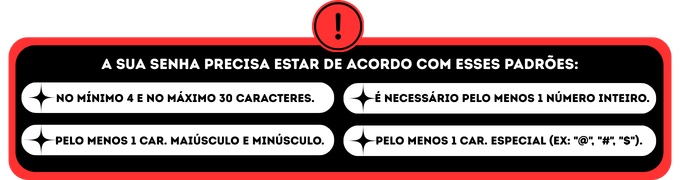
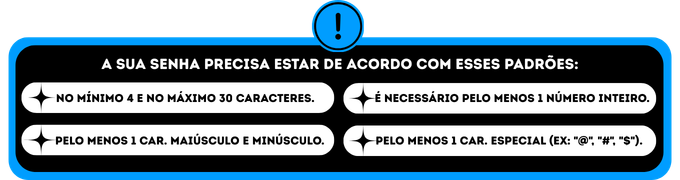
ATLZ. GERAL

Changed region(s): [[0.0, 0.0, 0.9882, 1.0]]

diff --git a/ui/login.py b/ui/login.py
@@ -24,6 +24,21 @@ def TelaLogin(function, container):
                 service.Username_Dont_Exist(error_txt1, zone1, V=True)
             else:
                 service.Incorrect_Password(error_txt1, zone2, V=True)
+    
+    def Show_Regist(function):
+        function('cadastrar-se')
+
+        IMG_PATH = Path(__file__).resolve().parent
+        frame = ctk.CTkFrame(container, width=680, height=200, fg_color='black', corner_radius=10)
+        frame.grid(row=0, column=0, pady=(50, 0))
+        frame.grid_propagate(False)
+        frame.grid_columnconfigure(0, weight=1)
+        frame.grid_rowconfigure(0, weight=1)
+
+        IMG_PIL = Image.open(IMG_PATH / 'images' / 'aviso.png')
+        IMG = ctk.CTkImage(light_image=IMG_PIL, dark_image=IMG_PIL, size=(680, 180))
+        IMG_label = ctk.CTkLabel(frame, text='', image=IMG)
+        IMG_label.grid(row=0, column=0)
 
     frame1 = ctk.CTkFrame(container, width=680, height=440, corner_radius=20, fg_color='black')
     frame1.place(relx=0.5, rely=0.5, anchor='center')
@@ -31,18 +46,15 @@ def TelaLogin(function, container):
 
     frame1.grid_columnconfigure(0, weight=1)
     
-    UI_DIR = Path(__file__).resolve().parent
-    IMG_DIR = 'images'
-    IMG_PATH = UI_DIR / IMG_DIR
+    UI_PATH = Path(__file__).resolve().parent
 
-    bg_pil1 = Image.open(IMG_PATH / 'login_bg.png')
-    bg_image1 = ctk.CTkImage(light_image=bg_pil1, dark_image=bg_pil1, size=(1920, 1080))
+    bg_pil = Image.open(UI_PATH / 'images' / 'login_bg.png')
+    bg_image = ctk.CTkImage(light_image=bg_pil, dark_image=bg_pil, size=(1920, 1080))
 
-    bg_label1 = ctk.CTkLabel(container, image=bg_image1, text='')
-    bg_label1.place(relx=0, rely=0, relwidth=1, relheight=1)
+    bg_label = ctk.CTkLabel(container, image=bg_image, text='')
+    bg_label.place(relx=0, rely=0, relwidth=1, relheight=1)
     
-    IMG_PATH1 = UI_DIR / IMG_DIR
-    txt_pill = Image.open(IMG_PATH1 / 'login_text.png')
+    txt_pill = Image.open(UI_PATH / 'images' / 'login_text.png')
     img_txt = ctk.CTkImage(light_image=txt_pill, dark_image=txt_pill, size=(400, 200))
 
     img_txt_label1 = ctk.CTkLabel(frame1, image=img_txt, text='')
@@ -66,7 +78,7 @@ def TelaLogin(function, container):
     txt2 = ctk.CTkLabel(frame1, font=('Roboto', 12), text='Você ainda não possui um cadastro ativo?')
     txt2.grid(row=0, column=0, pady=(300, 0), padx=(0, 90))
 
-    btn2 = ctk.CTkButton(frame1, width=30, height=10, text='Cadastrar-se', command=lambda: function('cadastrar-se'))
+    btn2 = ctk.CTkButton(frame1, width=30, height=10, text='Cadastrar-se', command=lambda: Show_Regist(function))
     btn2.grid(row=0, column=0, pady=(300, 0), padx=(240, 0))
 
     frame_box1 = ctk.CTkFrame(frame1, width=400, height=90, corner_radius=15, fg_color="#414446")

diff --git a/ui/cadastro.py b/ui/cadastro.py
@@ -29,21 +29,14 @@ def TelaCadastro(function, container):
                 service.Dont_Accept_T(error_txt1, cbx1, V=True)
 
 
-    UI_DIR = Path(__file__).resolve().parent
-    IMG_DIR = 'images'
-    IMG_PATH = UI_DIR / IMG_DIR
-    
-    img_pill = Image.open(IMG_PATH / 'aviso.png')
-    error_rules_img = ctk.CTkImage(light_image=img_pill, dark_image=img_pill, size=(680, 180))
-    error_rules_label = ctk.CTkLabel(container, image=error_rules_img, text='', fg_color='transparent')
-    error_rules_label.place(relx=0.5, rely=(0.2), anchor='center')
+    IMG_PATH = Path(__file__).resolve().parent
 
     frame1 = ctk.CTkFrame(container, width=680, height=440, corner_radius=20, fg_color='black')
     frame1.place(relx=0.5, rely=0.5, anchor='center')
     frame1.grid_propagate(False)
     frame1.grid_columnconfigure(0, weight=1)
 
-    txt_pill = Image.open(IMG_PATH / 'cadastro_text.png')
+    txt_pill = Image.open(IMG_PATH / 'images' / 'cadastro_text.png')
     img_txt = ctk.CTkImage(light_image=txt_pill, dark_image=txt_pill, size=(400, 200))
     img_txt_label = ctk.CTkLabel(frame1, image=img_txt, text='')
     img_txt_label.grid(row=0, column=0, pady=(0, 280))

diff --git a/main.py b/main.py
@@ -1,11 +1,12 @@
 import customtkinter as ctk
 from ui import start, cadastro, login, home
 import db
+from PIL import Image
+from pathlib import Path
 
 frames = dict()
 
 def ExibirFrame(frame):
-    print(frame)
     next_frame = frames[frame]
     next_frame.tkraise()
 
@@ -21,6 +22,8 @@ app.grid_rowconfigure(0, weight=1)
 container = ctk.CTkFrame(app, fg_color="#009DFF")
 container.grid(row=0, column=0, sticky='nsew')
 
+container.grid_columnconfigure(0, weight=1)
+
 frames['fazer-login'] = login.TelaLogin(ExibirFrame, container)
 frames['cadastrar-se'] = cadastro.TelaCadastro(ExibirFrame, container)
 frames['home'] = home.TelaPrincipal(ExibirFrame, container, app)
@@ -29,5 +32,7 @@ ExibirFrame('fazer-login')
 
 IsTrueOrFalse = db.check_remember_me()
 
+if IsTrueOrFalse:
+    ExibirFrame('home')
 
 app.mainloop()
